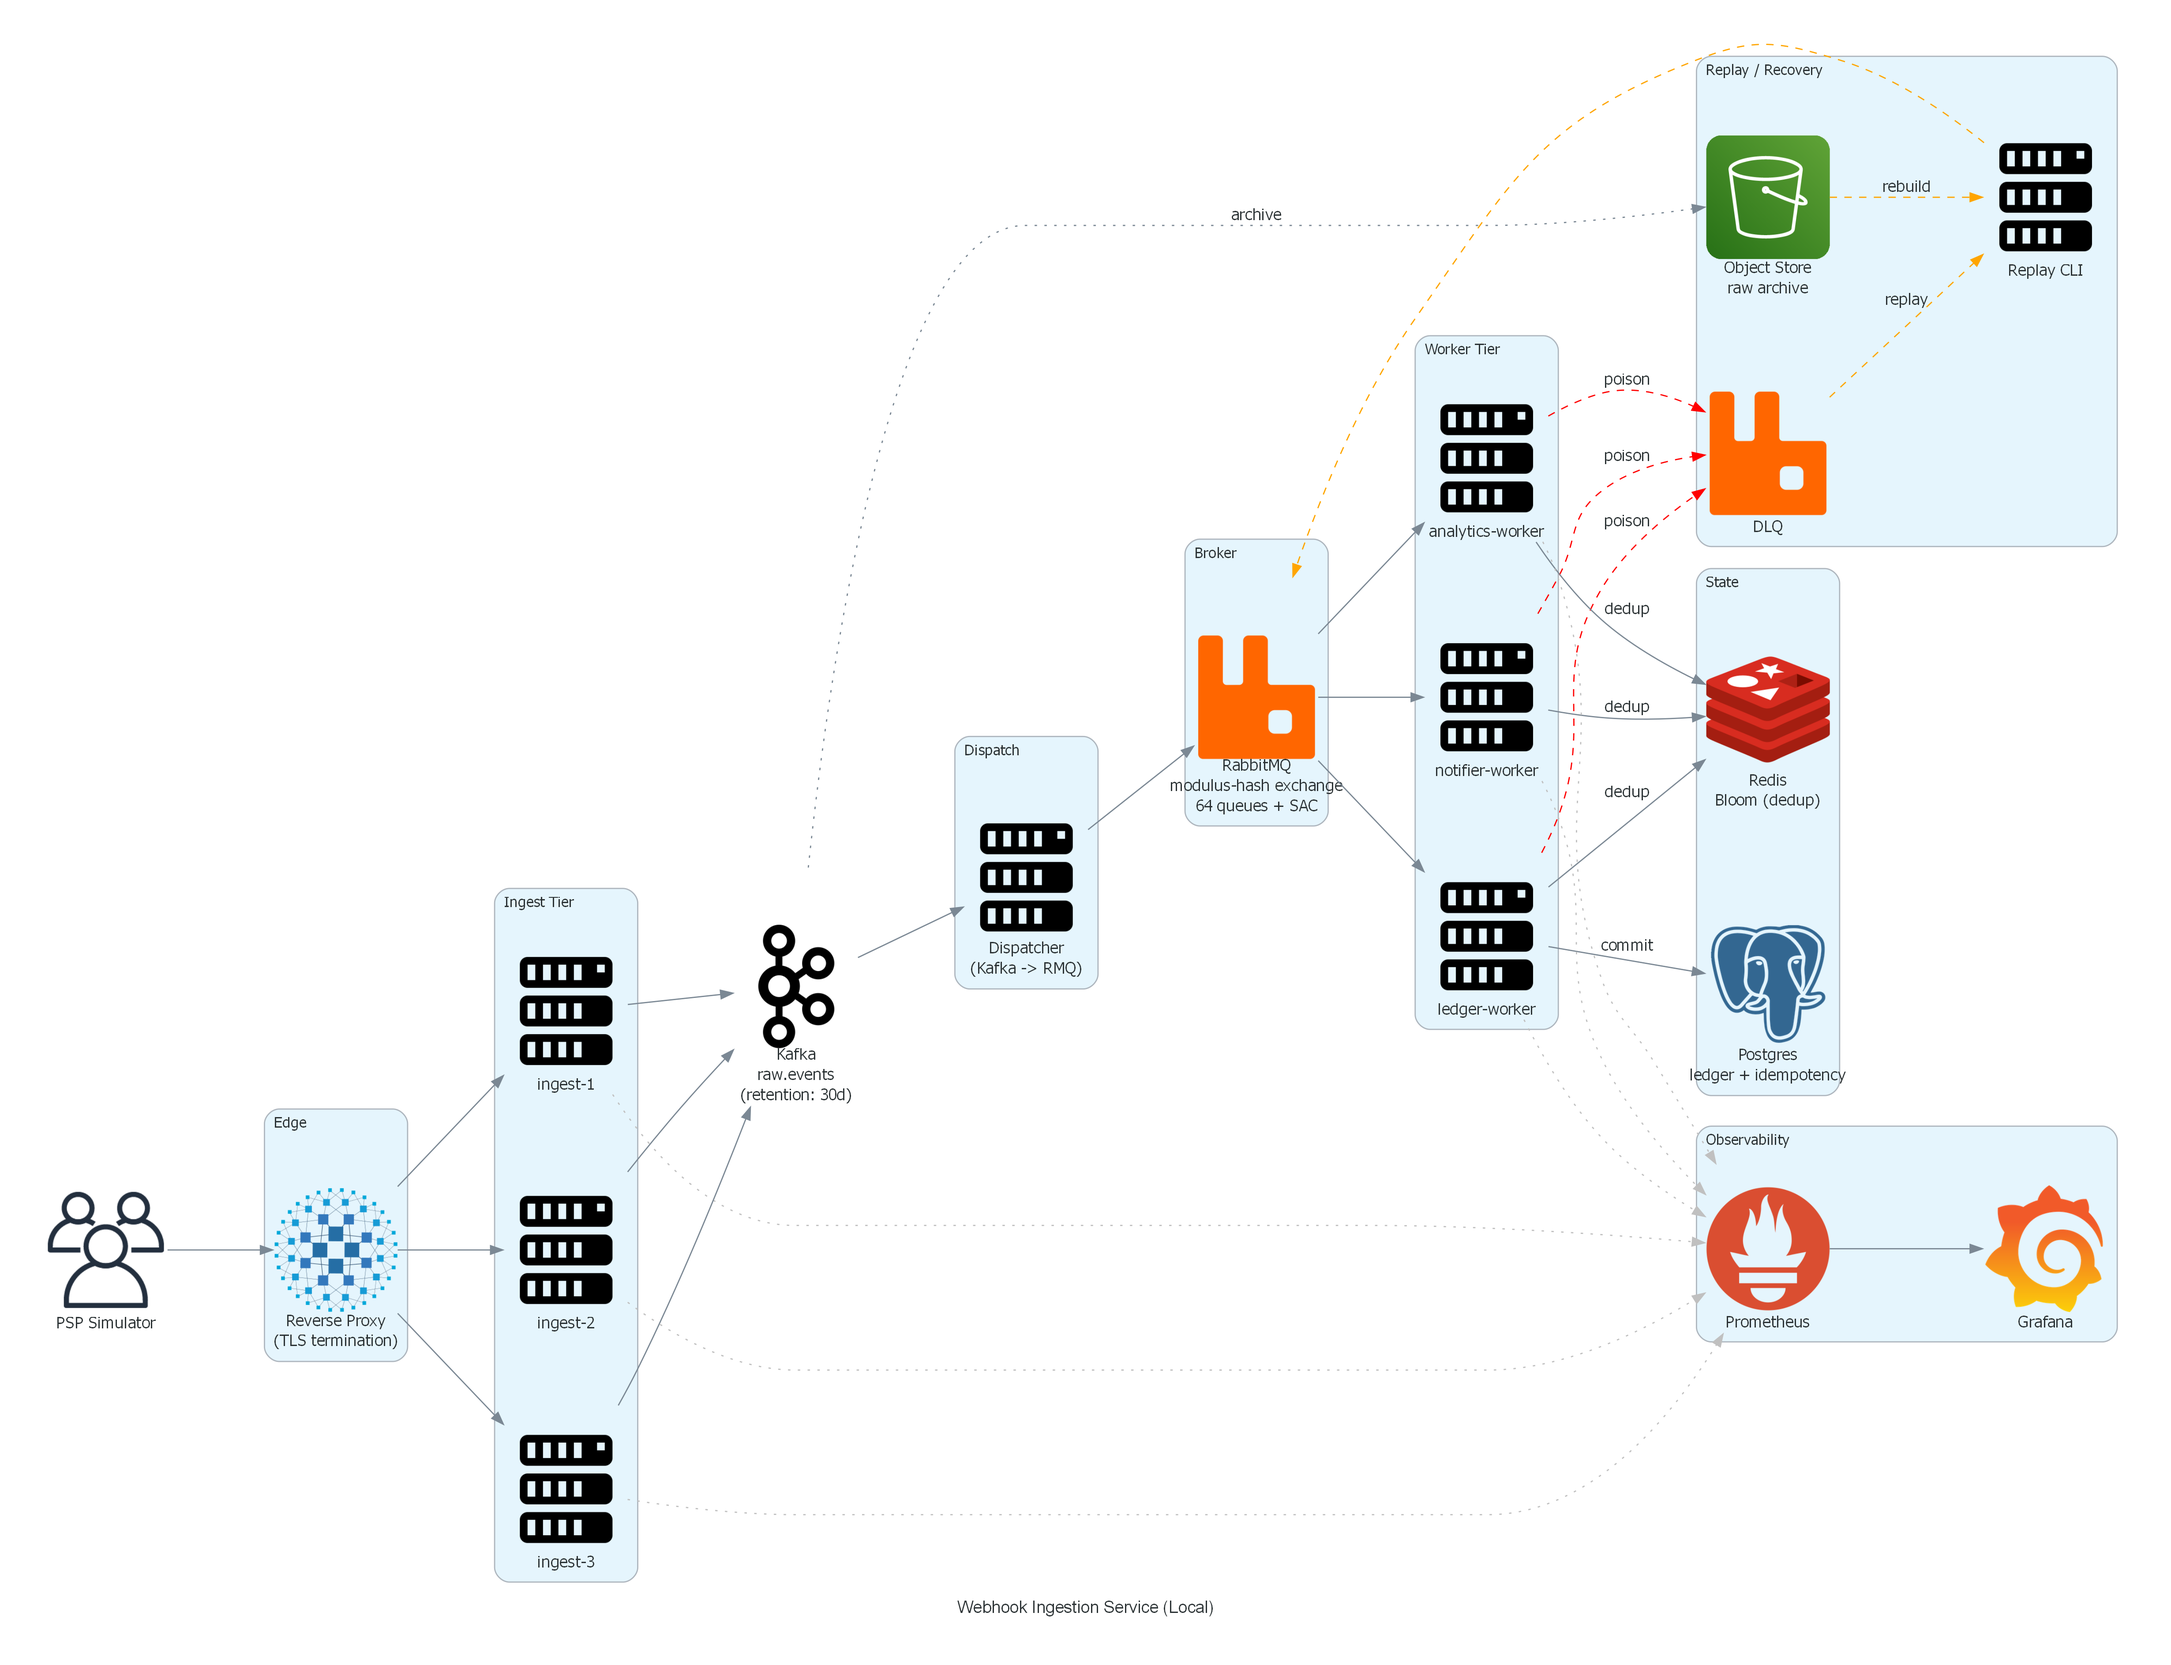
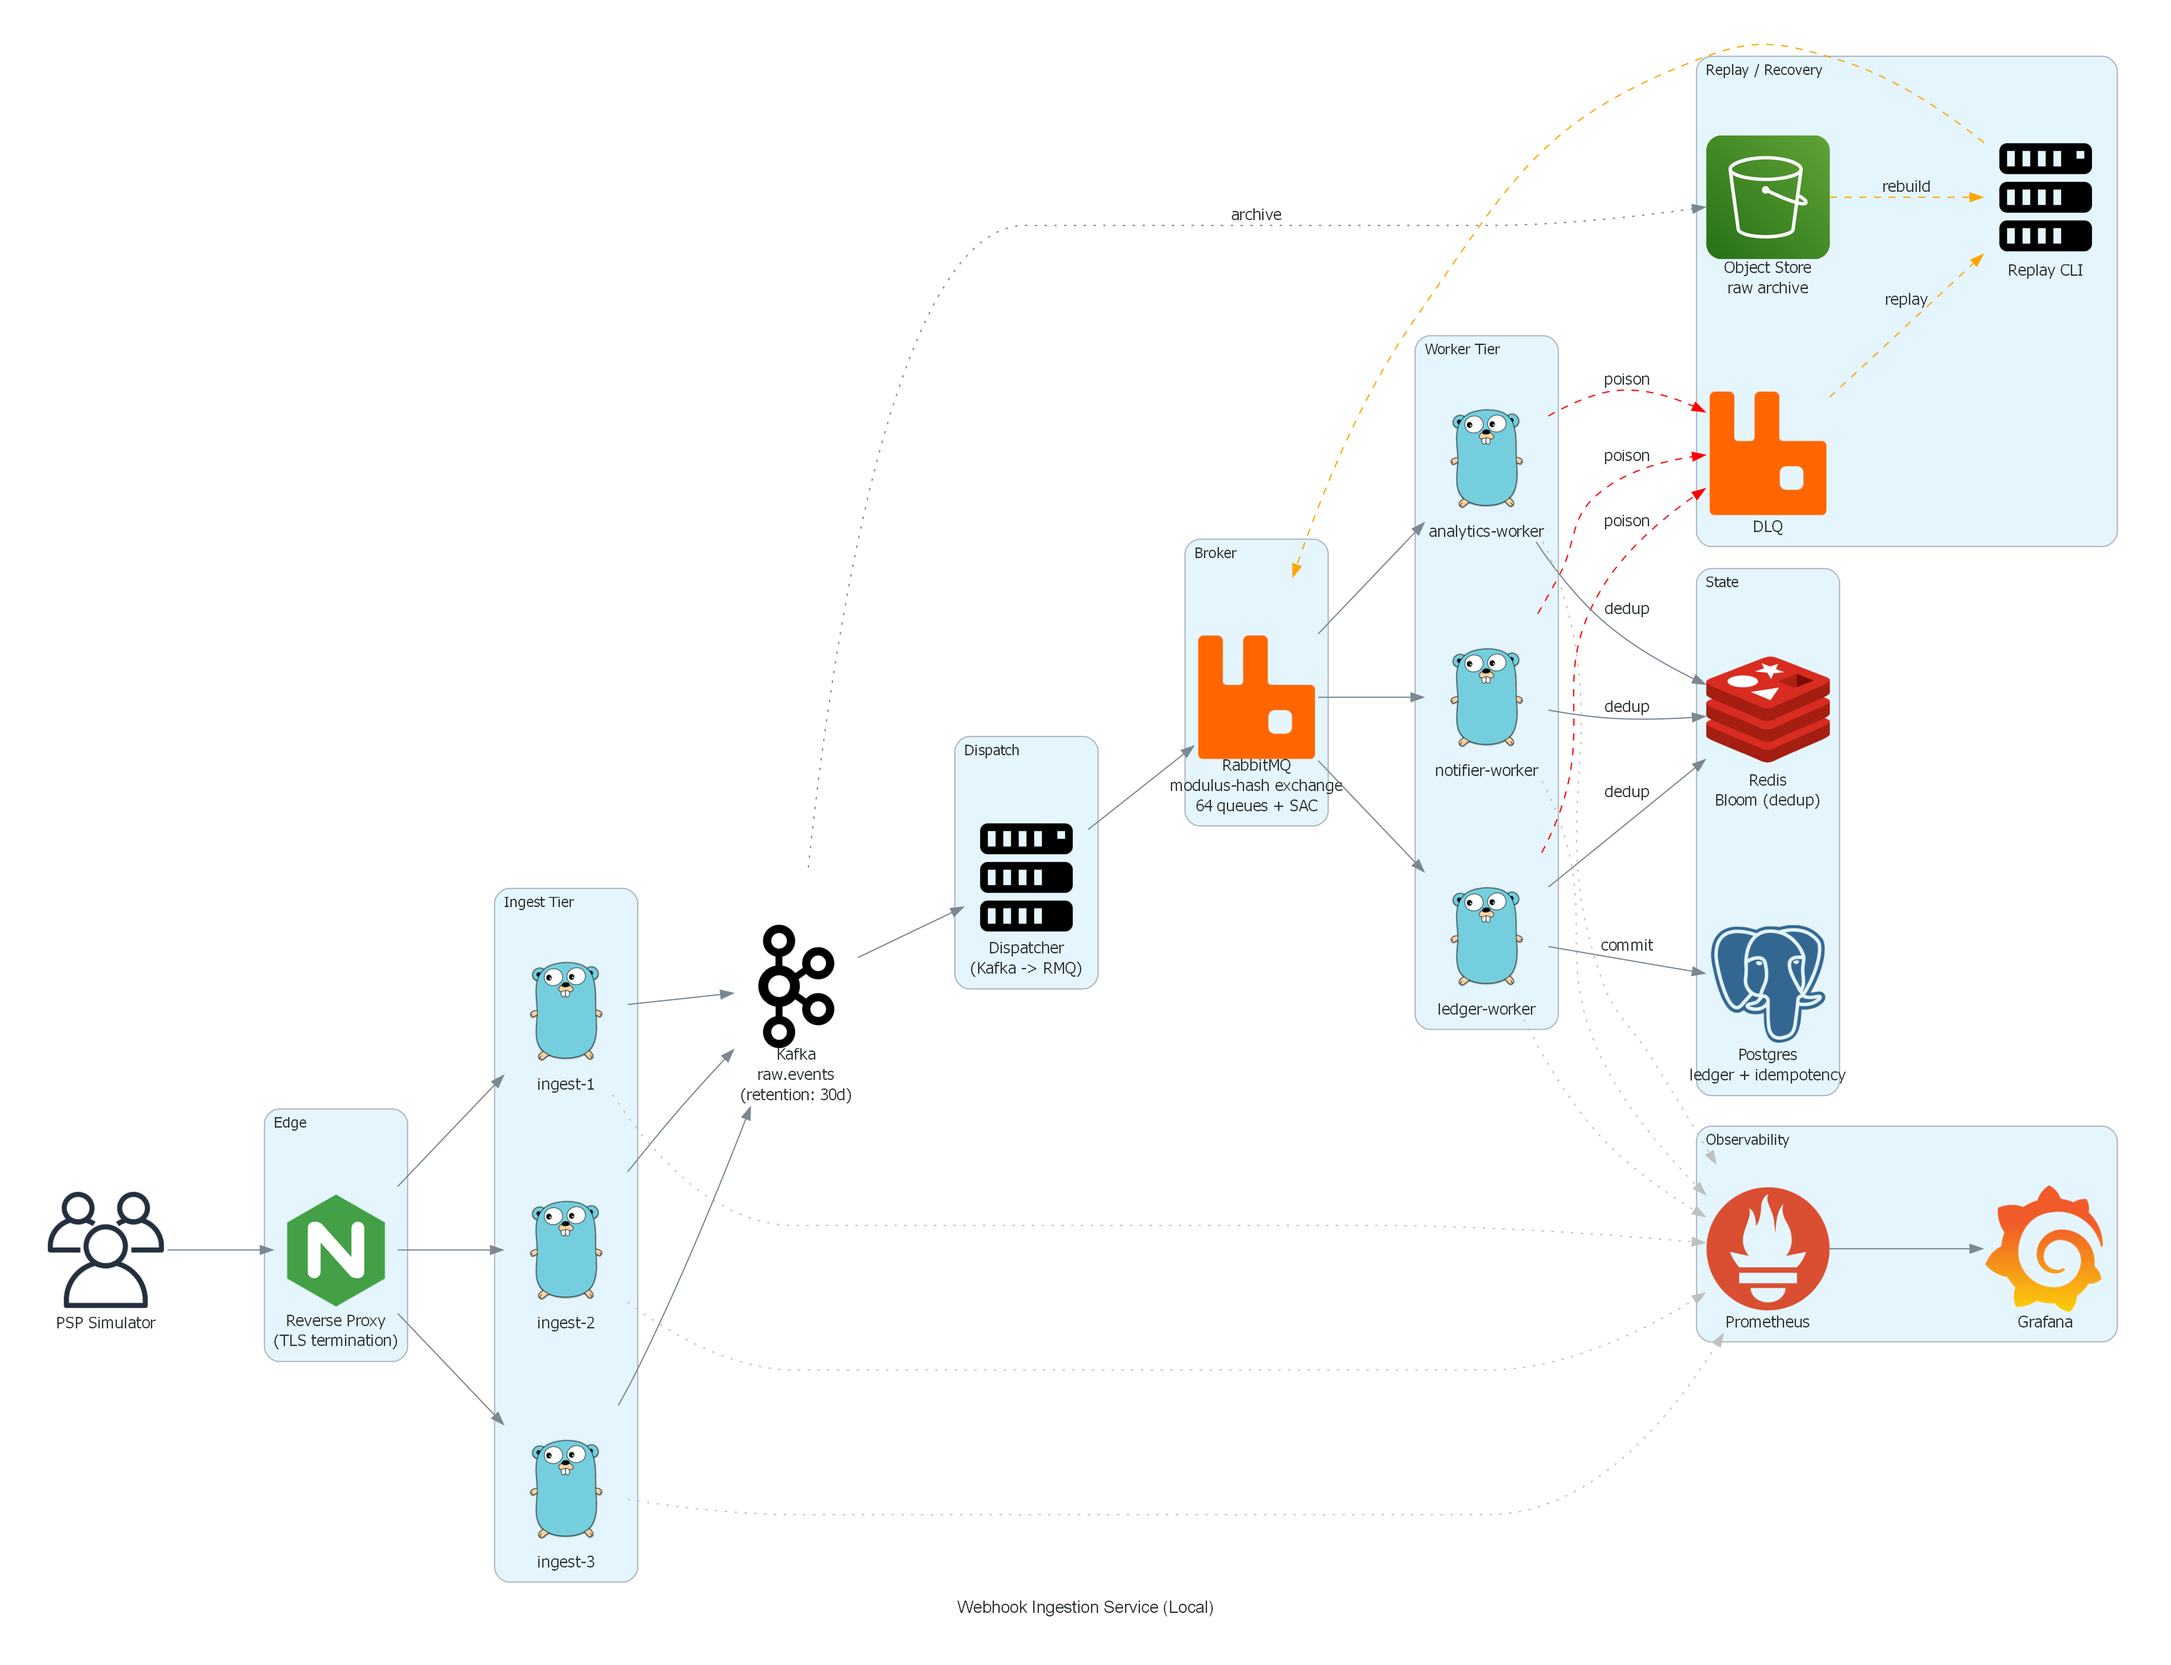
refactor: update diagram to use Nginx and Go for servers in local architecture

diff --git a/diagrams/local.py b/diagrams/local.py
@@ -1,5 +1,5 @@
 from diagrams import Diagram, Cluster, Edge
-from diagrams.onprem.network import Nginx, HAProxy
+from diagrams.onprem.network import Nginx
 from diagrams.onprem.compute import Server
 from diagrams.onprem.queue import Kafka, RabbitMQ
 from diagrams.onprem.database import PostgreSQL
@@ -7,6 +7,7 @@ from diagrams.onprem.inmemory import Redis
 from diagrams.onprem.monitoring import Prometheus, Grafana
 from diagrams.aws.storage import S3
 from diagrams.onprem.client import Users
+from diagrams.programming.language import Go
 
 graph_attr = {
     "dpi": "200",
@@ -25,13 +26,13 @@ with Diagram("Webhook Ingestion Service (Local)", show=False,
     psp = Users("PSP Simulator")
 
     with Cluster("Edge"):
-        proxy = HAProxy("Reverse Proxy\n(TLS termination)")
+        proxy = Nginx("Reverse Proxy\n(TLS termination)")
 
     with Cluster("Ingest Tier"):
         ingest = [
-            Server("ingest-1"),
-            Server("ingest-2"),
-            Server("ingest-3"),
+            Go("ingest-1"), # Docker?
+            Go("ingest-2"),
+            Go("ingest-3"),
         ]
 
     buffer = Kafka("Kafka\nraw.events\n(retention: 30d)")
@@ -44,9 +45,9 @@ with Diagram("Webhook Ingestion Service (Local)", show=False,
 
     with Cluster("Worker Tier"):
         workers = [
-            Server("ledger-worker"),
-            Server("notifier-worker"),
-            Server("analytics-worker"),
+             Go("ledger-worker"),
+             Go("notifier-worker"),
+             Go("analytics-worker"),
         ]
 
     with Cluster("State"):
